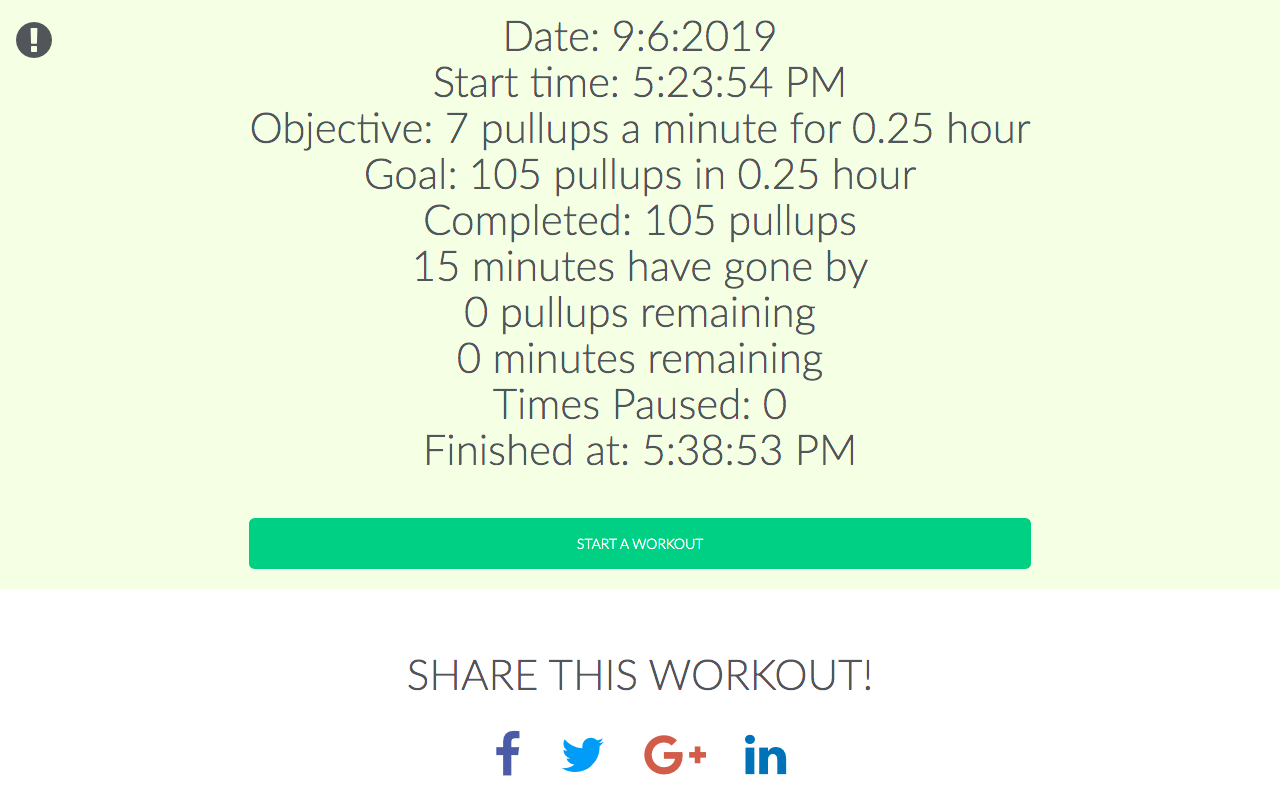
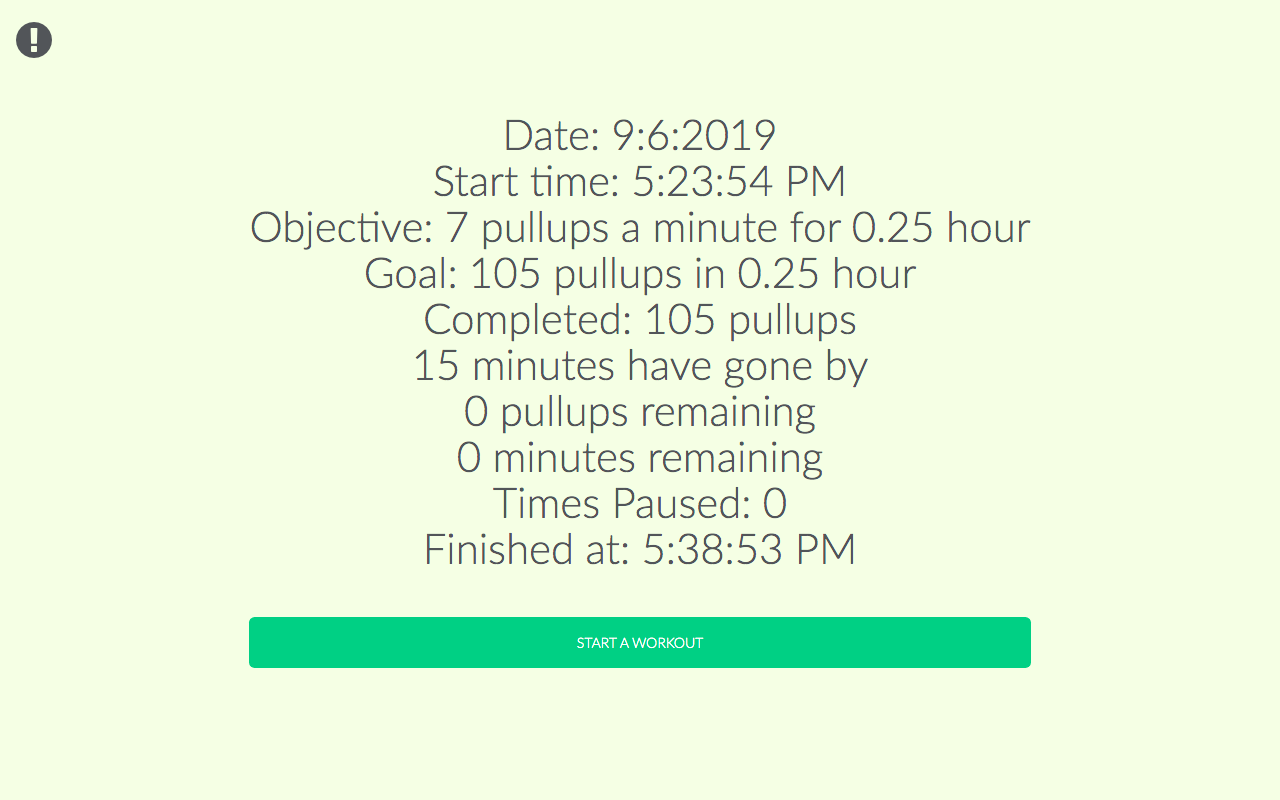
bug fix

diff --git a/share.html b/share.html
@@ -35,7 +35,7 @@
             <!-- Shared Workout -->
             <div class="selectdropdowns startworkout">
               <h1 class="center headline-primary--grouped">&nbsp;</h1>
-              <h1 class="center headline-primary--grouped" data-output="workoutlog"></h1>
+              <h1 class="center headline-primary--grouped" data-output="workoutlog">No Workout Data Found</h1>
               <h1 class="center headline-primary--grouped">&nbsp;</h1>
               
               <a class="btn--info confirmdropdown fill" href="./index.html" data-start="workout" data-action="bounce" style="margin-left: 0;">
@@ -45,7 +45,7 @@
           </div>
         </div>
 
-        <div class="polyriseblock notgrid bg-overlay3" style="box-shadow: rgba(99, 121, 207, 0) 0px 0px 0px 1600px inset; padding: 2em 0px; background-color: rgb(255, 255, 255);">
+        <div class="polyriseblock hide notgrid bg-overlay3" style="box-shadow: rgba(99, 121, 207, 0) 0px 0px 0px 1600px inset; padding: 2em 0px; background-color: rgb(255, 255, 255);">
           <div class="grid">
             <div class="panel--centered centered grid__col--12">
               <h1 style="margin-bottom: .5em; text-transform: uppercase;" class="editable">Share This Workout!</h1>
@@ -70,6 +70,7 @@
             </div>
           </div>
         </div>
+        
         <div class="polyriseblock notgrid bg-overlay3" style="box-shadow: rgba(99, 121, 207, 0) 0px 0px 0px 1600px inset; padding: 2em 0px; background-color: rgb(51, 51, 51);">
           <div class="grid">
             <div class="grid__col--12 tc">
